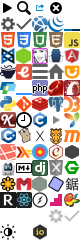
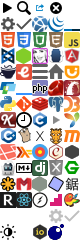
Add Lua documentation

Changed region(s): [[0.6, 0.9333, 0.8, 1.0]]

diff --git a/assets/stylesheets/global/_icons.scss b/assets/stylesheets/global/_icons.scss
@@ -86,3 +86,4 @@
 %icon-light                 { background-position: 0 -14rem; }
 %icon-light-white           { background-position: -1rem -14rem; }
 ._icon-iojs:before          { background-position: -2rem -14rem; }
+._icon-lua:before           { background-position: -3rem -14rem; }

diff --git a/assets/stylesheets/pages/_lua.scss b/assets/stylesheets/pages/_lua.scss
@@ -1,0 +1,10 @@
+._lua {
+  padding-left: 1rem;
+
+  h1, h2 { margin-left: -1rem; }
+  h2 { @extend %block-heading; }
+  h3 { @extend %block-label, %label-blue; }
+  h4 { font-size: inherit; }
+
+  .apii { float: right; }
+}

diff --git a/assets/stylesheets/application-dark.css.scss b/assets/stylesheets/application-dark.css.scss
@@ -46,6 +46,7 @@
         'pages/laravel',
         'pages/less',
         'pages/lodash',
+        'pages/lua',
         'pages/marionette',
         'pages/markdown',
         'pages/maxcdn',

diff --git a/assets/stylesheets/application.css.scss b/assets/stylesheets/application.css.scss
@@ -46,6 +46,7 @@
         'pages/laravel',
         'pages/less',
         'pages/lodash',
+        'pages/lua',
         'pages/marionette',
         'pages/markdown',
         'pages/maxcdn',

diff --git a/lib/docs/filters/lua/entries.rb b/lib/docs/filters/lua/entries.rb
@@ -1,0 +1,29 @@
+module Docs
+  class Lua
+    class EntriesFilter < Docs::EntriesFilter
+      def additional_entries
+        type = nil
+
+        doc.children.each_with_object [] do |node, entries|
+          if node.name == 'h1'
+            type = node.content.strip
+            type.remove! %r{.+\u{2013}\s+}
+            type.remove! 'The '
+            type = 'API' if type == 'Application Program Interface'
+          end
+
+          next if type && type.include?('Incompatibilities')
+          next if node.name == 'h2' && type.in?(%w(API Auxiliary\ Library Standard\ Libraries))
+
+          if node.name == 'h2' || node.name == 'h3'
+            name = node.content
+            name.remove! %r{.+\u{2013}\s+}
+            name.remove! %r{\[.+\]}
+            name.gsub! %r{\s+\(.*\)}, '()'
+            entries << [name, node['id'], type]
+          end
+        end
+      end
+    end
+  end
+end

diff --git a/lib/docs/filters/lua/clean_html.rb b/lib/docs/filters/lua/clean_html.rb
@@ -1,0 +1,31 @@
+module Docs
+  class Lua
+    class CleanHtmlFilter < Filter
+      def call
+        css('hr', 'h1 img', '.footer').remove
+
+        css('[name]').each do |node|
+          node['id'] = node['name']
+          node.remove_attribute('name')
+        end
+
+        css('h1 > a[id]', 'h2 > a[id]', 'h3 > a[id]').each do |node|
+          node.parent['id'] = node['id']
+          node.before(node.children).remove
+        end
+
+        3.times { at_css('h1[id="1"]').previous_element.remove }
+
+        css('.apii').each do |node|
+          node.parent.previous_element << node
+        end
+
+        css('pre').each do |node|
+          node.content = node.content.remove(/\A\s*\n/).rstrip.strip_heredoc
+        end
+
+        doc
+      end
+    end
+  end
+end

diff --git a/lib/docs/scrapers/lua.rb b/lib/docs/scrapers/lua.rb
@@ -1,0 +1,17 @@
+module Docs
+  class Lua < UrlScraper
+    self.type = 'lua'
+    self.version = '5.3'
+    self.base_url = 'http://www.lua.org/manual/5.3/'
+    self.root_path = 'manual.html'
+
+    html_filters.push 'lua/clean_html', 'lua/entries'
+
+    options[:skip_links] = true
+
+    options[:attribution] = <<-HTML
+      &copy; 1994&ndash;2015 Lua.org, PUC-Rio.<br>
+      Licensed under the MIT License.
+    HTML
+  end
+end
